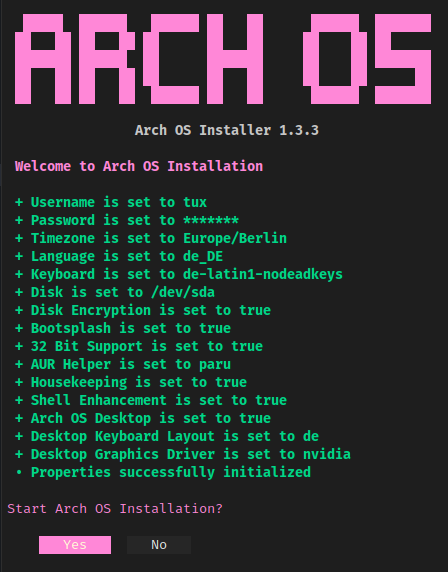
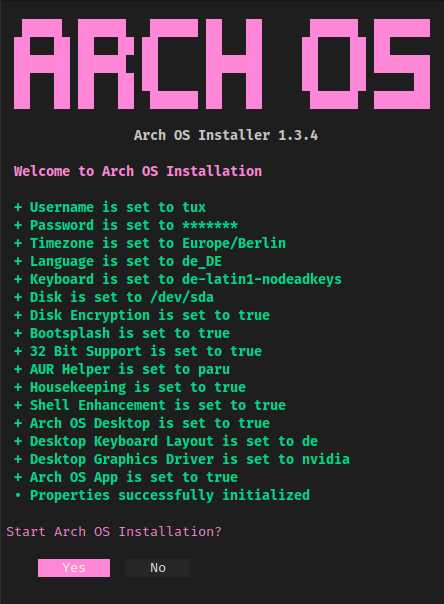
1.3.4

diff --git a/docs/README.md b/docs/README.md
@@ -7,7 +7,7 @@
 
 <p><strong>Boot from official <a target="_blank" href="https://archlinux.org/download/">Arch ISO</a> and simply run</strong></p>
 
-`curl -Ls bit.ly/arch-os | bash`
+**`curl -Ls bit.ly/arch-os | bash`**
 
 <p><b>
 
@@ -65,7 +65,6 @@ This project aims to provide a robust Arch Linux base for desktop usage, along w
 - [Graphics Driver](DOCS.md#install-graphics-driver-manually) (Mesa, Intel i915, NVIDIA, AMD, ATI)
 - Wayland optimized
 - [Pipewire Audio](DOCS.md#for-audiophiles) (Dolby Atmos supported)
-- [Arch OS Bootsplash](https://github.com/murkl/plymouth-theme-arch-os)
 - AUR Helper ([configurable](DOCS.md#advanced-installation))
 - 32 Bit Support (Multilib)
 - Disk Encryption
@@ -80,6 +79,8 @@ This project aims to provide a robust Arch Linux base for desktop usage, along w
 - Gamemode preinstalled (desktop)
 - Firmware Update Tool preinstalled (desktop)
 - [VM Support](DOCS.md#vm-support)
+- [Arch OS Bootsplash](https://github.com/murkl/plymouth-theme-arch-os)
+- [Arch OS App](https://github.com/murkl/arch-os-app)
 
 ## Installing Arch OS
 
@@ -101,7 +102,7 @@ This project aims to provide a robust Arch Linux base for desktop usage, along w
 
 - Load prefered keyboard layout (optional): `loadkeys de`
 - Connect to WLAN (optional): `iwctl station wlan0 connect 'SSID'`
-- **Run Arch OS Installer:** `curl -Ls  bit.ly/arch-os | bash`
+- **Run Arch OS Installer: `curl -Ls  bit.ly/arch-os | bash`**
 
 ## Using Arch OS
 

diff --git a/docs/DOCS.md b/docs/DOCS.md
@@ -136,6 +136,7 @@ ARCH_OS_MICROCODE='intel-ucode' # Microcode | Disable: none | Available: intel-u
 ARCH_OS_ECN_ENABLED='true' # Disable ECN support for legacy routers | Default: true | Disable: false
 ARCH_OS_BOOTSPLASH_ENABLED='true' # Bootsplash | Disable: false
 ARCH_OS_DESKTOP_ENABLED='desktop' # Arch OS Desktop | Disable: false
+ARCH_OS_APP_ENABLED='true' # Arch OS App | Disable: false
 ARCH_OS_SHELL_ENHANCEMENT_ENABLED='true' # Shell Enhancement | Disable: false
 ARCH_OS_AUR_HELPER='paru' # AUR Helper | Default: paru | Disable: none | Recommended: paru, yay, trizen, pikaur
 ARCH_OS_MULTILIB_ENABLED='true' # MultiLib 32 Bit Support | Disable: false
